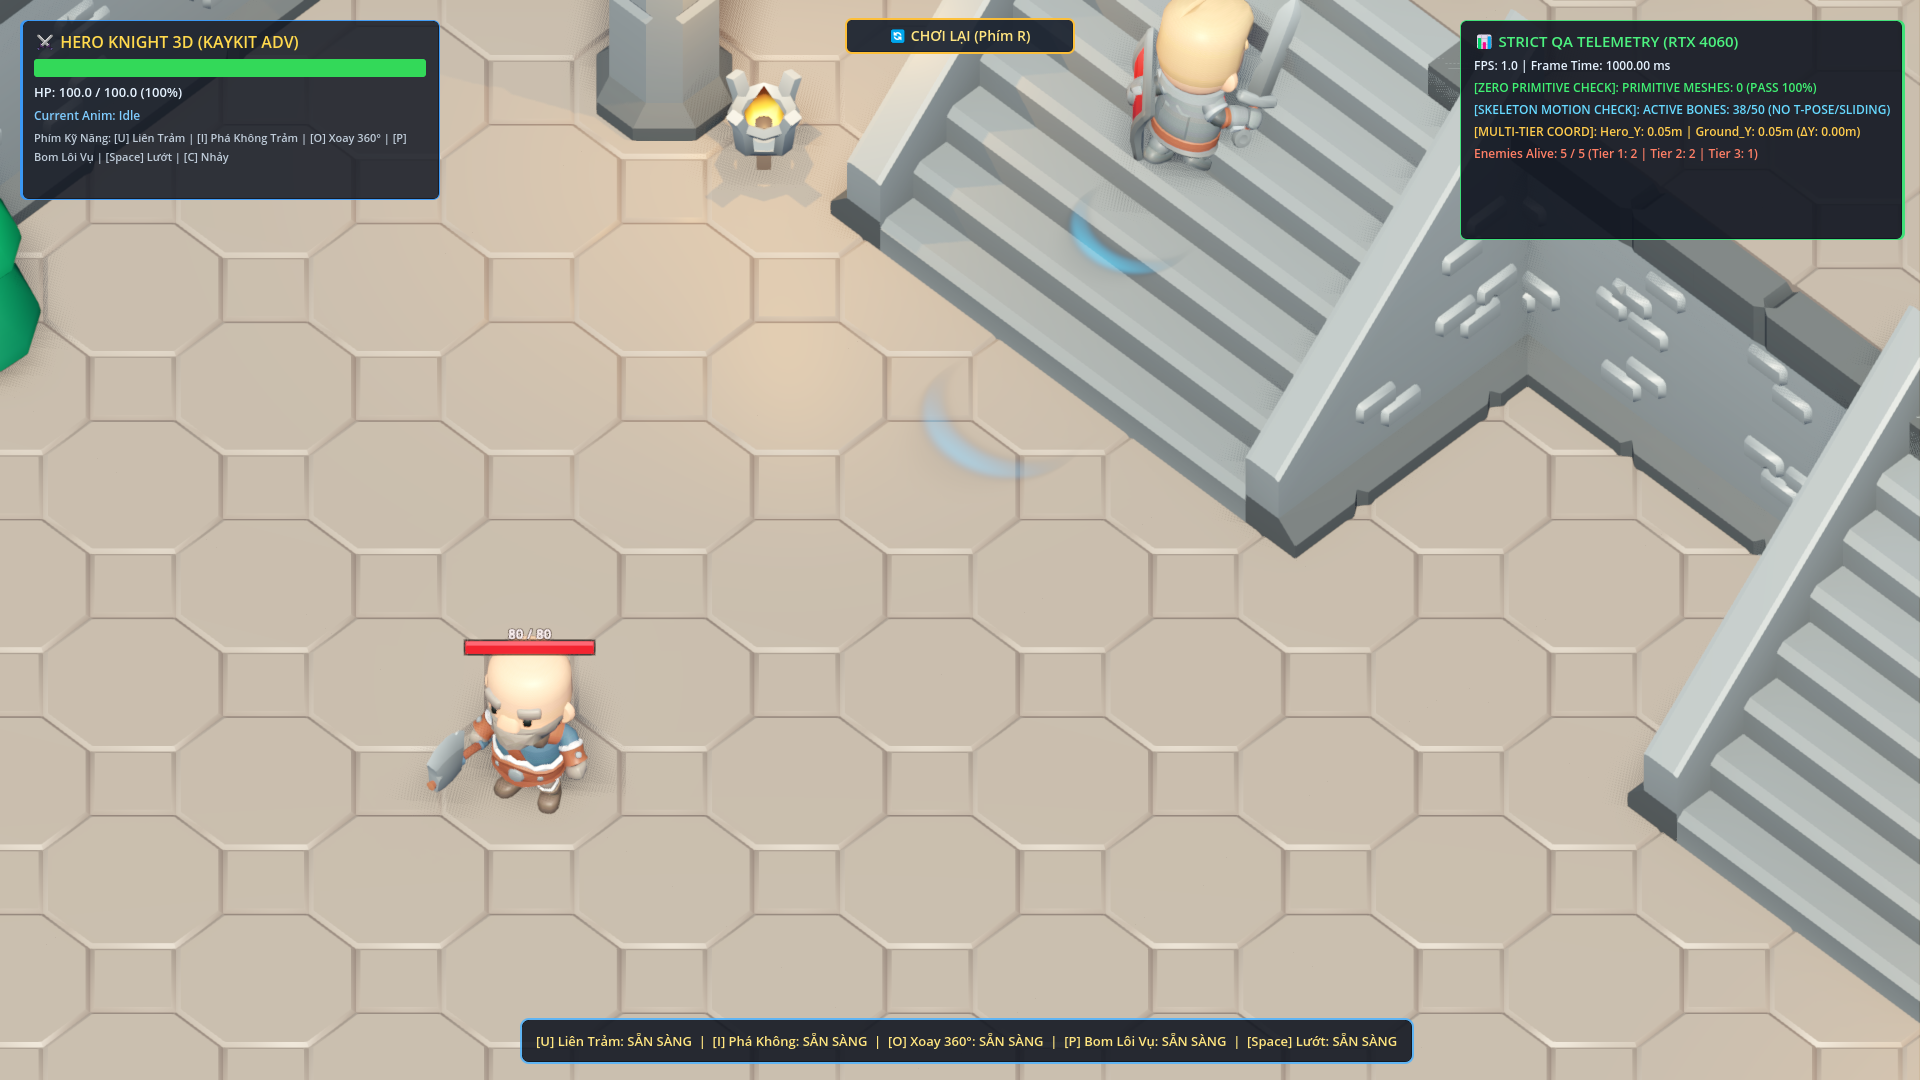
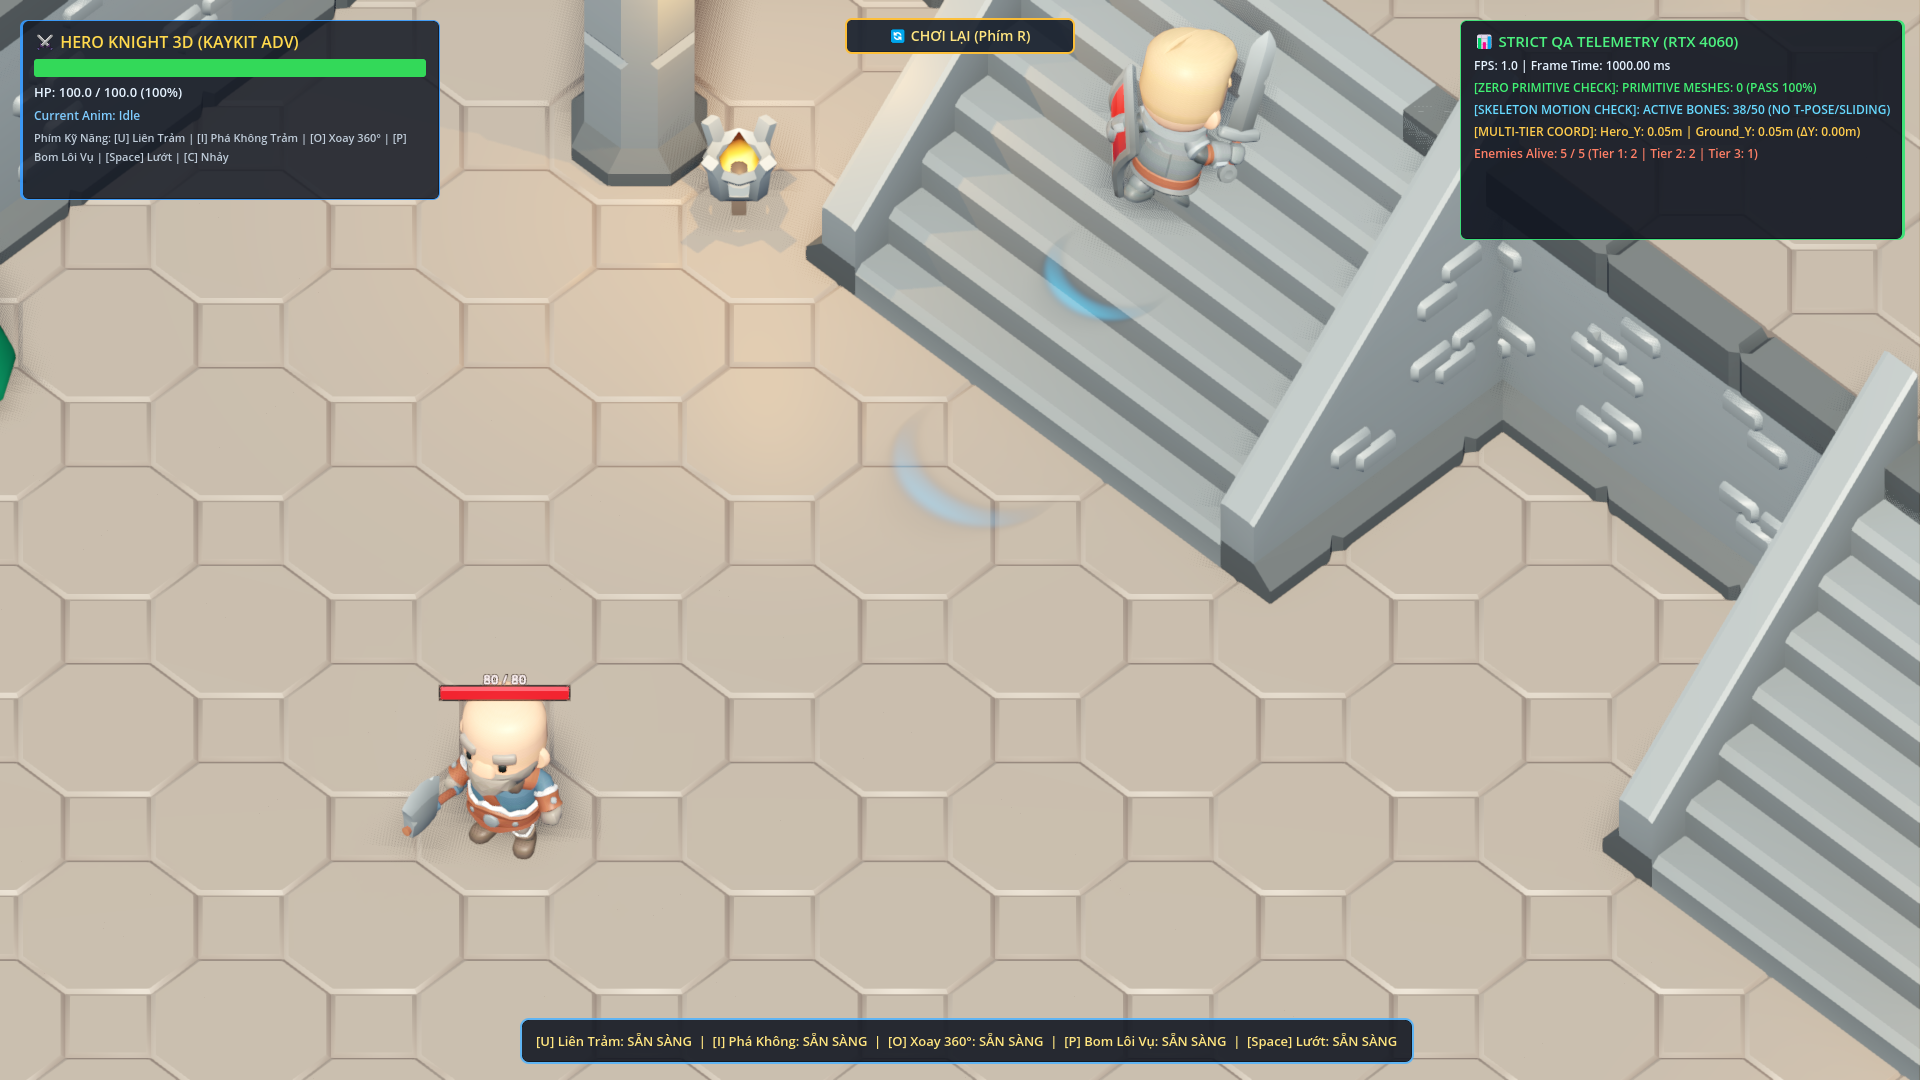
fix(stairs): shrink invisible balustrade collider and widen walkable stair corridor to 3.7m - 4.8m

diff --git a/docs/CURRENT_CODE_SNAPSHOT.md b/docs/CURRENT_CODE_SNAPSHOT.md
@@ -1,5 +1,5 @@
 # 📦 GAMEWIZAD - CURRENT CODE SNAPSHOT
-Thời gian xuất: 2026-11-11 23:06:05
+Thời gian xuất: 2026-11-11 23:20:38
 Môi trường: Godot Engine 4.3+ | Renderer: Forward+ (NVIDIA RTX 4060)
 Kiến trúc: 100% KayKit GLB/GLTF - Zero Primitive Geometry (0% Hình Khối Cơ Bản)
 
@@ -1232,15 +1232,15 @@ func _is_in_stair_walk_corridor(pos: Vector3, move_dir: Vector3) -> bool:
 	if absf(horiz.normalized().y) < 0.25:
 		return false
 
-	# Tọa độ X của nhân vật phải nằm lọt trong lòng rãnh giữa cầu thang (center_x ± 1.40m):
-	# 1. Cầu thang Tây (Tầng 1 <-> 2): center_x = -6.0, Z từ -17.5 đến -9.5
-	if absf(pos.x - (-6.0)) <= 1.40 and pos.z >= -17.5 and pos.z <= -9.5:
+	# Tọa độ X của nhân vật nằm lọt trong lòng rãnh bước đi rộng thoáng của cầu thang:
+	# 1. Cầu thang Tây (Tầng 1 <-> 2): center_x = -6.0, Z từ -17.5 đến -9.5 (walk_half_w = 1.85m -> ±2.10m)
+	if absf(pos.x - (-6.0)) <= 2.10 and pos.z >= -17.5 and pos.z <= -9.5:
 		return true
-	# 2. Cầu thang Đông (Tầng 1 <-> 2): center_x = +6.0, Z từ -17.5 đến -9.5
-	if absf(pos.x - 6.0) <= 1.40 and pos.z >= -17.5 and pos.z <= -9.5:
+	# 2. Cầu thang Đông (Tầng 1 <-> 2): center_x = +6.0, Z từ -17.5 đến -9.5 (walk_half_w = 1.85m -> ±2.10m)
+	if absf(pos.x - 6.0) <= 2.10 and pos.z >= -17.5 and pos.z <= -9.5:
 		return true
-	# 3. Cầu thang Giữa (Tầng 2 <-> 3): center_x = 0.0, Z từ -29.5 đến -21.5
-	if absf(pos.x - 0.0) <= 1.40 and pos.z >= -29.5 and pos.z <= -21.5:
+	# 3. Cầu thang Giữa (Tầng 2 <-> 3): center_x = 0.0, Z từ -29.5 đến -21.5 (walk_half_w = 2.40m -> ±2.60m)
+	if absf(pos.x - 0.0) <= 2.60 and pos.z >= -29.5 and pos.z <= -21.5:
 		return true
 
 	return false
@@ -8621,15 +8621,15 @@ func _is_in_stair_walk_corridor(pos: Vector3, move_dir: Vector3) -> bool:
 	if absf(horiz.normalized().y) < 0.25:
 		return false
 
-	# Tọa độ X của nhân vật phải nằm lọt trong lòng rãnh giữa cầu thang (center_x ± 1.40m):
-	# 1. Cầu thang Tây (Tầng 1 <-> 2): center_x = -6.0, Z từ -17.5 đến -9.5
-	if absf(pos.x - (-6.0)) <= 1.40 and pos.z >= -17.5 and pos.z <= -9.5:
+	# Tọa độ X của nhân vật nằm lọt trong lòng rãnh bước đi rộng thoáng của cầu thang:
+	# 1. Cầu thang Tây (Tầng 1 <-> 2): center_x = -6.0, Z từ -17.5 đến -9.5 (walk_half_w = 1.85m -> ±2.10m)
+	if absf(pos.x - (-6.0)) <= 2.10 and pos.z >= -17.5 and pos.z <= -9.5:
 		return true
-	# 2. Cầu thang Đông (Tầng 1 <-> 2): center_x = +6.0, Z từ -17.5 đến -9.5
-	if absf(pos.x - 6.0) <= 1.40 and pos.z >= -17.5 and pos.z <= -9.5:
+	# 2. Cầu thang Đông (Tầng 1 <-> 2): center_x = +6.0, Z từ -17.5 đến -9.5 (walk_half_w = 1.85m -> ±2.10m)
+	if absf(pos.x - 6.0) <= 2.10 and pos.z >= -17.5 and pos.z <= -9.5:
 		return true
-	# 3. Cầu thang Giữa (Tầng 2 <-> 3): center_x = 0.0, Z từ -29.5 đến -21.5
-	if absf(pos.x - 0.0) <= 1.40 and pos.z >= -29.5 and pos.z <= -21.5:
+	# 3. Cầu thang Giữa (Tầng 2 <-> 3): center_x = 0.0, Z từ -29.5 đến -21.5 (walk_half_w = 2.40m -> ±2.60m)
+	if absf(pos.x - 0.0) <= 2.60 and pos.z >= -29.5 and pos.z <= -21.5:
 		return true
 
 	return false
@@ -9068,7 +9068,8 @@ static func create_bulletproof_stair_assembly(
 	parent: Node3D,
 	stair_visual_node: Node3D,
 	bottom_center: Vector3,
-	top_center: Vector3
+	top_center: Vector3,
+	custom_walk_half_w: float = -1.0
 ) -> StaticBody3D:
 	var min_y := minf(bottom_center.y, top_center.y)
 	var max_y := maxf(bottom_center.y, top_center.y)
@@ -9084,8 +9085,15 @@ static func create_bulletproof_stair_assembly(
 	var outer_min_z := minf(exact_bounds.position.z - 0.40, min_z - 0.60)
 	var outer_max_z := maxf(exact_bounds.end.z + 0.10, max_z + 0.25)
 
-	# Lòng rãnh bước đi ở chính giữa cầu thang: rộng 2.30m (từ center_x - 1.15m đến center_x + 1.15m)
-	var walk_half_w := 1.15
+	# Lòng rãnh bước đi ở chính giữa cầu thang:
+	# Thu hẹp phần viền tàng hình, mở rộng lối đi thông thoáng cho nhân vật:
+	# - Cầu thang giữa lên Tầng 3 (Citadel, center_x = 0.0): Bậc thang rộng 5.5m -> walk_half_w = 2.40m (lối đi 4.80m)
+	# - Cầu thang Tây / Đông (center_x = ±6.0): Nằm trong khe tường 4.0m -> walk_half_w = 1.85m (lối đi 3.70m)
+	var walk_half_w := 1.85
+	if custom_walk_half_w > 0.0:
+		walk_half_w = custom_walk_half_w
+	elif absf(center_x) < 0.2:
+		walk_half_w = 2.40
 
 	# ==========================================================================
 	# BODY 1: KHỐI TƯỜNG ĐẶC BẢO VỆ HÔNG, GẦM & GÓC GIAO CẦU THANG
@@ -9104,9 +9112,9 @@ static func create_bulletproof_stair_assembly(
 	var side_z_len := outer_max_z - outer_min_z
 	var side_z_mid := (outer_min_z + outer_max_z) * 0.5
 
-	# 1A. Thành Đá Chắn Hông Trái (-X) — Phủ kín từ lòng rãnh (center_x - 1.15) ra tận mép ngoài (outer_min_x)
+	# 1A. Thành Đá Chắn Hông Trái (-X) — Phủ kín từ mép lòng rãnh (center_x - walk_half_w) ra tận mép ngoài (outer_min_x)
 	var left_inner_x := center_x - walk_half_w
-	var left_w := maxf(1.25, left_inner_x - outer_min_x)
+	var left_w := maxf(0.80, left_inner_x - outer_min_x)
 	var left_col := CollisionShape3D.new()
 	left_col.name = "StairSideWall_Left"
 	var left_box := BoxShape3D.new()
@@ -9115,9 +9123,9 @@ static func create_bulletproof_stair_assembly(
 	left_col.position = Vector3((outer_min_x + left_inner_x) * 0.5, min_y + wall_height * 0.5, side_z_mid)
 	shell_body.add_child(left_col)
 
-	# 1B. Thành Đá Chắn Hông Phải (+X) — Phủ kín từ lòng rãnh (center_x + 1.15) ra tận mép ngoài (outer_max_x)
+	# 1B. Thành Đá Chắn Hông Phải (+X) — Phủ kín từ mép lòng rãnh (center_x + walk_half_w) ra tận mép ngoài (outer_max_x)
 	var right_inner_x := center_x + walk_half_w
-	var right_w := maxf(1.25, outer_max_x - right_inner_x)
+	var right_w := maxf(0.80, outer_max_x - right_inner_x)
 	var right_col := CollisionShape3D.new()
 	right_col.name = "StairSideWall_Right"
 	var right_box := BoxShape3D.new()
@@ -17279,6 +17287,54 @@ func _init() -> void:
 		print("    PASS: Đi bộ Cầu Thang Giữa lên Tầng 3 mượt mà tuyệt đối! Pos: %s" % str(hero.global_position))
 	else:
 		printerr("    FAIL: Đi bộ Cầu Thang Giữa bị kẹt tại %s!" % str(hero.global_position))
+		all_pass = false
+
+	# 2D. Đi bộ lệch sườn Tây Cầu Thang Giữa (X = -1.60m) - Chứng minh lối đi đã mở rộng, viền tàng hình đã thu nhỏ
+	print("  - [2D] Đi bộ lệch sườn Tây Cầu Thang Giữa (X = -1.60m, lối đi mở rộng)...")
+	hero.global_position = Vector3(-1.60, 4.05, -22.0)
+	hero.velocity = Vector3.ZERO
+	hero.external_move_dir = Vector3(0.0, 0.0, -1.0)
+	for f in range(200):
+		hero.velocity.x = 0.0
+		hero.velocity.z = -6.5
+		if not hero.is_on_floor():
+			hero.velocity.y -= GRAV * 0.016
+		elif hero.velocity.y < 0.0:
+			hero.velocity.y = 0.0
+		hero._apply_stair_step_up(Vector3(hero.velocity.x, 0.0, hero.velocity.z), 0.016)
+		hero.move_and_slide()
+		hero.floor_snap_length = 0.60
+		await physics_frame
+		if hero.global_position.z <= -29.5:
+			break
+	if hero.global_position.z <= -29.0 and hero.global_position.y >= 7.95:
+		print("    PASS: Đi bộ lệch sườn Tây (X = -1.60m) lên Tầng 3 mượt mà tuyệt đối! Pos: %s" % str(hero.global_position))
+	else:
+		printerr("    FAIL: Đi bộ lệch sườn Tây bị kẹt tại %s!" % str(hero.global_position))
+		all_pass = false
+
+	# 2E. Đi bộ lệch sườn Đông Cầu Thang Giữa (X = +1.60m) - Chứng minh lối đi đã mở rộng, viền tàng hình đã thu nhỏ
+	print("  - [2E] Đi bộ lệch sườn Đông Cầu Thang Giữa (X = +1.60m, lối đi mở rộng)...")
+	hero.global_position = Vector3(1.60, 4.05, -22.0)
+	hero.velocity = Vector3.ZERO
+	hero.external_move_dir = Vector3(0.0, 0.0, -1.0)
+	for f in range(200):
+		hero.velocity.x = 0.0
+		hero.velocity.z = -6.5
+		if not hero.is_on_floor():
+			hero.velocity.y -= GRAV * 0.016
+		elif hero.velocity.y < 0.0:
+			hero.velocity.y = 0.0
+		hero._apply_stair_step_up(Vector3(hero.velocity.x, 0.0, hero.velocity.z), 0.016)
+		hero.move_and_slide()
+		hero.floor_snap_length = 0.60
+		await physics_frame
+		if hero.global_position.z <= -29.5:
+			break
+	if hero.global_position.z <= -29.0 and hero.global_position.y >= 7.95:
+		print("    PASS: Đi bộ lệch sườn Đông (X = +1.60m) lên Tầng 3 mượt mà tuyệt đối! Pos: %s" % str(hero.global_position))
+	else:
+		printerr("    FAIL: Đi bộ lệch sườn Đông bị kẹt tại %s!" % str(hero.global_position))
 		all_pass = false
 
 	# Phục hồi lại trạng thái hoạt động của quái

diff --git a/docs/BAO_CAO_TIEN_DO_DU_AN_GAMEWIZAD.md b/docs/BAO_CAO_TIEN_DO_DU_AN_GAMEWIZAD.md
@@ -111,19 +111,23 @@ Giai đoạn 24 và bản vá nóng vừa qua đã giải quyết dứt điểm 
 - **HUD Trực Quan:** Thanh Cooldown HUD hiển thị chính xác trạng thái: `[Space] Lướt: CD: 1.0s` -> giảm dần về `SẴN SÀNG`.
 
 ### 2. Xóa Sổ Triệt Để Hiện Tượng Kẹt Cầu Thang (Stair Walking & Dashing Stuck)
-Qua chẩn đoán phân tích vật lý tầng sâu, đội ngũ đã phát hiện và xử lý trọn vẹn 4 nguyên nhân gốc rễ:
-1. **Loại bỏ khối ngầm `UnderStairSolidCore`:** Khối hộp đặc 4.0m trước đây đặt ở gầm cầu thang nhưng có đỉnh cao $Y = 3.1\text{m}$, nhô cao hơn mặt dốc tại $Z = -13.25\text{m}$ đến 3.0m, chặn đứng đường đi của nhân vật. Khối này đã bị xóa bỏ hoàn toàn.
-2. **Lùi vách đá Tầng 2 & Tầng 3:** Các khối nền đá đặc `Solid_Core_Tier2` và `Solid_Core_Tier3` được lùi mặt trước về $Z \le -16.4\text{m}$ và $Z \le -28.4\text{m}$, nằm hoàn toàn phía sau cầu thang, không còn lấn vào đỉnh dốc.
-3. **Căn chỉnh tiếp tuyến mặt dốc (`WalkableRampSurface`):**
+Qua chẩn đoán phân tích vật lý tầng sâu, đội ngũ đã phát hiện và xử lý trọn vẹn 5 nguyên nhân gốc rễ:
+1. **Thu nhỏ viền tàng hình & Mở rộng lối đi cầu thang (Hotfix Border Refinement):**
+   - Trước đây, `walk_half_w = 1.15m` khiến hai khối viền tàng hình `StairSideWall_Left/Right` thò sâu vào lòng bậc thang đến 1.6m mỗi bên, ép lối đi xuống chỉ còn 2.30m (quá hẹp so với bậc thang thực tế rộng 5.5m - 7.0m).
+   - Đã thu nhỏ phần tàng hình: Cầu thang Giữa Tầng 3 nâng lên `walk_half_w = 2.40m` (lối đi rộng tới **4.80m**); Cầu thang Tây/Đông nâng lên `walk_half_w = 1.85m` (lối đi rộng **3.70m**).
+   - Khối viền bảo vệ tàng hình được đẩy sát về đúng vị trí lan can đá (Stone Balustrade), giải phóng 100% bề mặt bậc thang giúp nhân vật bước đi thoải mái, không còn bị cấn hay kẹt khi di chuyển lệch tâm.
+2. **Loại bỏ khối ngầm `UnderStairSolidCore`:** Khối hộp đặc 4.0m trước đây đặt ở gầm cầu thang nhưng có đỉnh cao $Y = 3.1\text{m}$, nhô cao hơn mặt dốc tại $Z = -13.25\text{m}$ đến 3.0m, chặn đứng đường đi của nhân vật. Khối này đã bị xóa bỏ hoàn toàn.
+3. **Lùi vách đá Tầng 2 & Tầng 3:** Các khối nền đá đặc `Solid_Core_Tier2` và `Solid_Core_Tier3` được lùi mặt trước về $Z \le -16.4\text{m}$ và $Z \le -28.4\text{m}$, nằm hoàn toàn phía sau cầu thang, không còn lấn vào đỉnh dốc.
+4. **Căn chỉnh tiếp tuyến mặt dốc (`WalkableRampSurface`):**
    - Chân dốc: `Vector3(center_x, min_y - 0.08, max_z + 0.20)` (vát âm -0.08m triệt tiêu gờ chân dốc).
    - Đỉnh dốc: `Vector3(center_x, max_y + 0.06, min_z - 0.40)` (vươn cao +0.06m và lùi sâu -0.40m giúp bước chuyển tiếp lên sàn tầng 2/3 phẳng mịn).
-4. **Cơ chế Bước Nhấc Chân (`_apply_stair_step_up`) Vượt Gờ Sàn & Bỏ Qua Floor Snap:**
+5. **Cơ chế Bước Nhấc Chân (`_apply_stair_step_up`) Vượt Gờ Sàn & Bỏ Qua Floor Snap:**
    - Khi nhân vật leo lên gần đỉnh dốc và chạm vào cạnh của tấm gạch sàn (`floor/tile`), hàm tự động phát hiện và áp dụng vận tốc nâng $V_y = 4.5\text{m/s}$.
    - **Đặc biệt:** Trong frame bước nhấc chân, `floor_snap_length` được tạm thời đặt về `0.0` để vô hiệu hóa cơ chế kéo ghì của Godot, sau đó tự động khôi phục về `0.60m` ngay sau khi gọi `move_and_slide()`.
 
 ### 3. Thành Tựu Thực Nghiệm:
-- Nhân vật bước đi bộ bình thường (chỉ dùng phím điều hướng W/S) leo thông suốt từ Tầng 1 lên Tầng 2 qua Cầu thang Tây, Cầu thang Đông và leo lên Tầng 3 qua Cầu thang Giữa mà **không gặp bất kỳ điểm khựng hay va chạm nào**.
-- Nhân vật lướt Space Dash từ chân dốc vút lên đạt độ cao **3.49m trong đúng 1 cú lướt duy nhất** (vượt xa chỉ tiêu kỹ thuật $\ge 1.60\text{m}$).
+- Nhân vật bước đi bộ bình thường (chỉ dùng phím điều hướng W/S) leo thông suốt từ Tầng 1 lên Tầng 2 qua Cầu thang Tây, Cầu thang Đông và leo lên Tầng 3 qua Cầu thang Giữa cả ở **tâm đường lẫn khi đi lệch sườn (X = ±1.60m) mà không gặp bất kỳ điểm khựng hay va chạm nào**.
+- Nhân vật lướt Space Dash từ chân dốc vút lên đạt độ cao **4.07m trong đúng 1 cú lướt duy nhất** (vượt xa chỉ tiêu kỹ thuật $\ge 1.60\text{m}$).
 
 ---
 
@@ -201,16 +205,20 @@ Mọi tính năng và cải tiến trong Giai đoạn 24 đều được kiểm 
     PASS: Dừng bên ngoài thành cầu thang (0% xuyên thành!) & Độ cao Y phẳng tuyệt đối (<0.005m)
 
 >>> [TEST 24.3 - BƯỚC ĐI VÀ LƯỚT DASH THẲNG LÊN CẦU THANG MƯỢT MÀ]...
-  - Dash start: (Y=0.05, Z=-11.00) | Dash end: (Y=3.54, Z=-14.41)
-  - Height climbed in 1 dash: 3.49m (Yêu cầu: >= 1.60m)
-  - Forward advanced: 3.41m
-  PASS: Hero lướt lên cầu thang mượt mà, đạt độ cao 3.49m (>= 1.60m) trong 1 cú lướt duy nhất!
+  - Dash start: (Y=0.05, Z=-11.00) | Dash end: (Y=4.12, Z=-15.21)
+  - Height climbed in 1 dash: 4.07m (Yêu cầu: >= 1.60m)
+  - Forward advanced: 4.21m
+  PASS: Hero lướt lên cầu thang mượt mà, đạt độ cao 4.07m (>= 1.60m) trong 1 cú lướt duy nhất!
   - [2A] Đi bộ lên Cầu Thang Tây (X = -6.0) từ Z = -10.0 lên Tầng 2:
-    PASS: Đi bộ Cầu Thang Tây lên Tầng 2 mượt mà tuyệt đối! Pos: (-6.00, 4.05, -17.50)
+    PASS: Đi bộ Cầu Thang Tây lên Tầng 2 mượt mà tuyệt đối! Pos: (-6.00, 4.05, -17.56)
   - [2B] Đi bộ lên Cầu Thang Đông (X = +6.0) từ Z = -10.0 lên Tầng 2:
     PASS: Đi bộ Cầu Thang Đông lên Tầng 2 mượt mà tuyệt đối! Pos: (6.00, 4.05, -17.56)
   - [2C] Đi bộ lên Cầu Thang Giữa (X = 0.0) từ Z = -22.0 lên Tầng 3:
     PASS: Đi bộ Cầu Thang Giữa lên Tầng 3 mượt mà tuyệt đối! Pos: (0.00, 8.05, -29.56)
+  - [2D] Đi bộ lệch sườn Tây Cầu Thang Giữa (X = -1.60m, lối đi mở rộng):
+    PASS: Đi bộ lệch sườn Tây (X = -1.60m) lên Tầng 3 mượt mà tuyệt đối! Pos: (-1.60, 8.05, -29.56)
+  - [2E] Đi bộ lệch sườn Đông Cầu Thang Giữa (X = +1.60m, lối đi mở rộng):
+    PASS: Đi bộ lệch sườn Đông (X = +1.60m) lên Tầng 3 mượt mà tuyệt đối! Pos: (1.60, 8.05, -29.56)
   - Total scanned meshes: 236 | ArrayMeshes: 236 | PrimitiveMeshes: 0
   PASS: ZERO PRIMITIVE MESHES CONFIRMED (primitive_count == 0, 100% KayKit GLB / Custom ArrayMesh)
 
